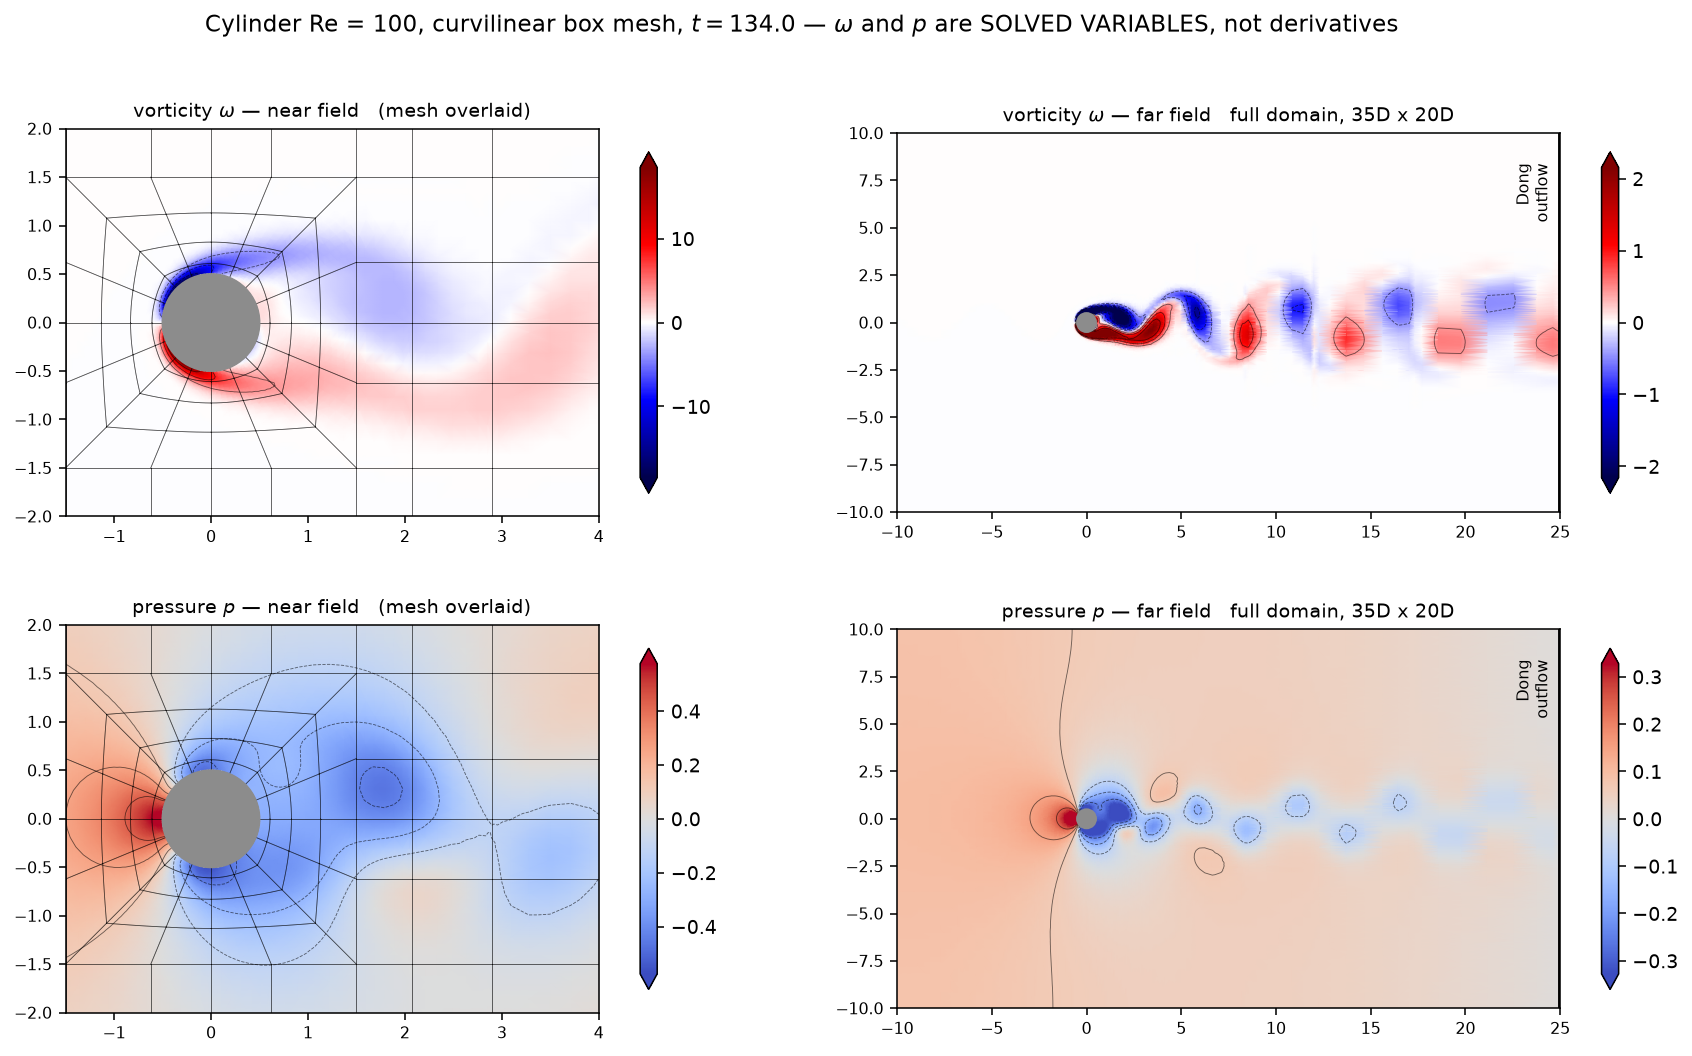
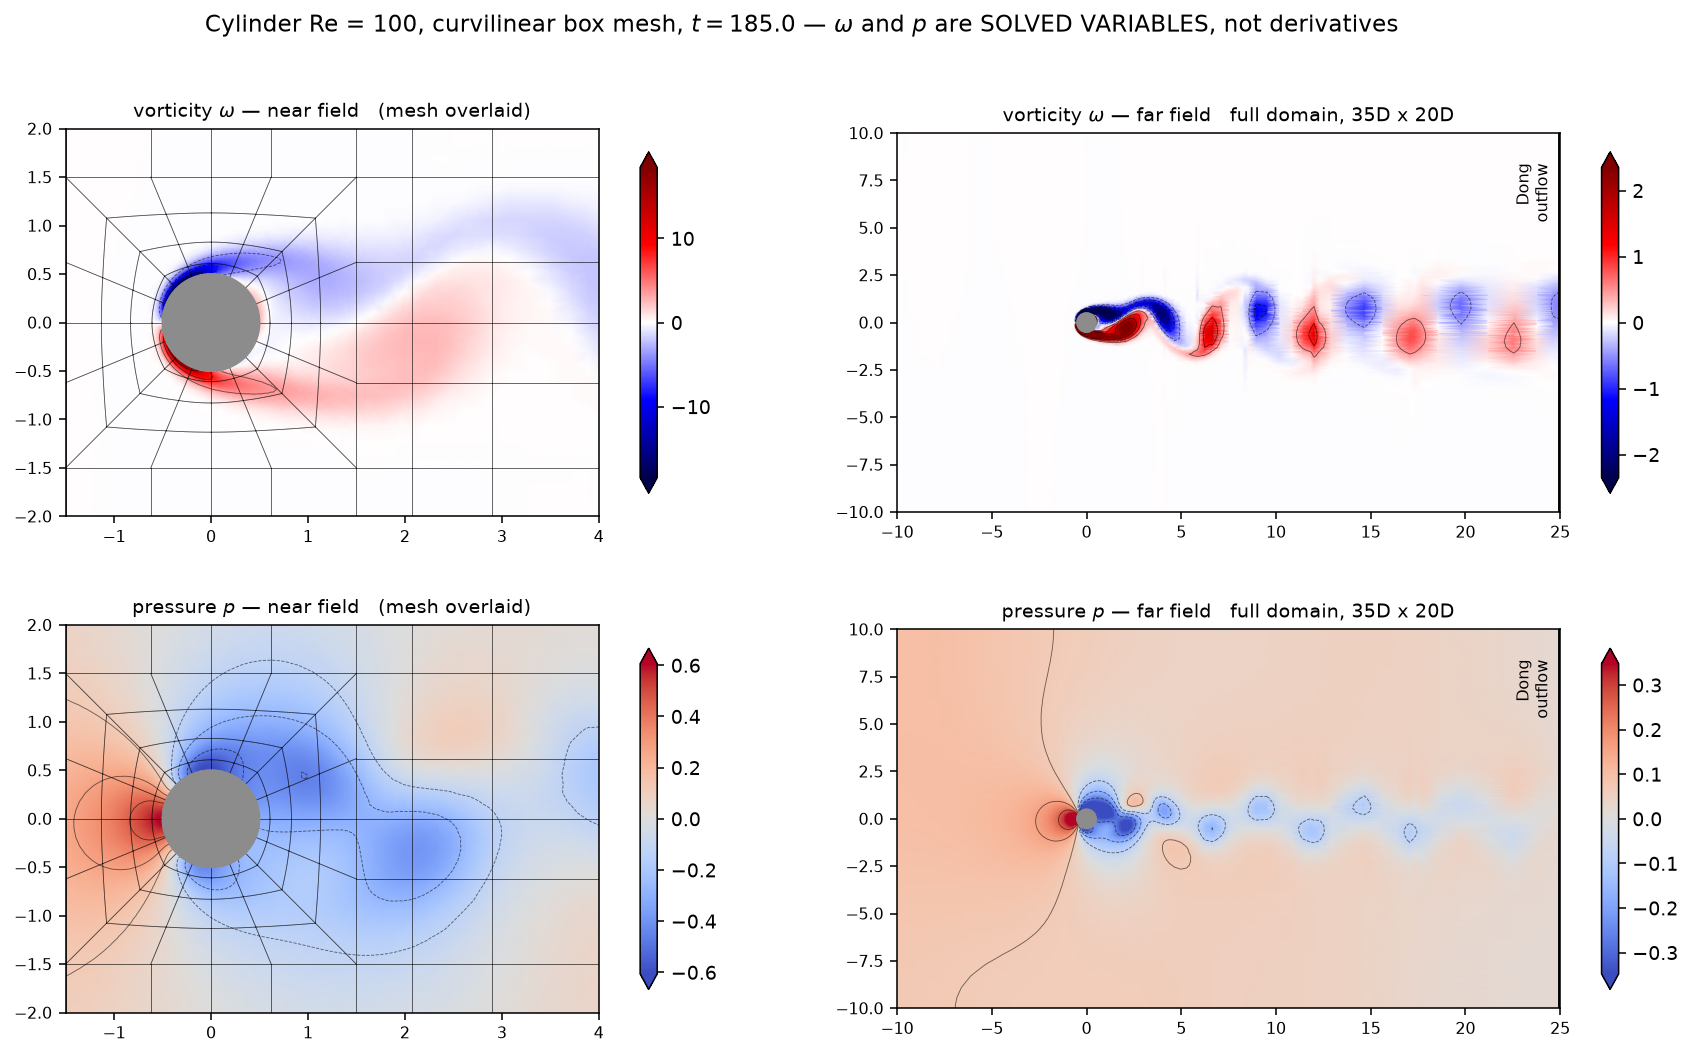
Cylinder Re=100: the blockage hypothesis was right after all
The previous commit retracted it on the strength of Behr et al. (1995), whose
criterion (H > 16) our H = 20 box satisfies.  A wider reading shows that
criterion is the loosest in the literature: Posdziech & Grundmann (2007) want
Xu > 20, Shi et al. (2004) used a polar domain of 300, and Kumar & Mittal
(2006) found blockage negligible only for H > 100.

Qu, Norberg, Davidson, Peng & Wang (2013) settle it quantitatively.  Their
cases D1-D4 sweep H = 200, 120, 100, 60 at fixed resolution, and all three
global quantities are linear in the blockage ratio D/H with R^2 >= 0.996.
Extrapolated to our D/H = 0.05:

    St    predicted 0.1697   ours 0.1698   +0.03 %
    C_D   predicted 1.3715   ours 1.3823   +0.79 %
    C_L'  predicted 0.2305   ours 0.2389   +3.62 %

So our St = 0.1698 is a blockage-free 0.164 seen through a box three times
narrower than anyone in that set used -- not a solver error.  The dt and N
sweeps could never have found this because neither varies the domain.

Also here: --N on the cylinder driver, with the restart seed p-interpolated
through precond._p_interp so an N sweep resumes from a developed wake instead
of regrowing one over 50+ time units; and curvi_cyl_st_fft.py, which takes the
Strouhal number from a Hann-windowed FFT with quadratic peak interpolation
rather than from zero crossings.

diff --git a/scratch/curvi_cyl_st_fft.py b/scratch/curvi_cyl_st_fft.py
@@ -1,0 +1,110 @@
+"""Strouhal number by FFT, cross-checked against zero crossings.
+
+    uv run python scratch/curvi_cyl_st_fft.py
+
+WHY THE RAW FFT IS NOT ENOUGH.  The record is ~40 time units and the period is
+~5.9, so the bin spacing 1/T = 0.025 is 15 % of St itself.  argmax on the
+spectrum would quantise the answer to something useless.  Three standard steps
+fix that and are all applied here:
+
+  * DETREND -- remove the mean, or the DC bin leaks into the first few bins.
+  * HANN WINDOW -- a rectangular window on a non-integer number of periods
+    leaks energy across many bins and biases the peak.  Hann trades a factor 2
+    in resolution for ~30 dB less leakage, which is the right trade when the
+    peak position, not its width, is the measurement.
+  * QUADRATIC PEAK INTERPOLATION -- fit a parabola through the peak bin and its
+    two neighbours in LOG magnitude.  For a windowed sinusoid this recovers the
+    true frequency to far better than a bin; it is what makes the estimate
+    comparable with the crossing method rather than 15 % worse.
+
+THE HARMONIC IS A FREE CHECK.  C_D is forced at TWICE the shedding frequency
+(both the upper and lower vortex pull downstream), so its spectrum must peak at
+2*St.  That is a property of the physics, not of the fit, and it costs nothing
+to verify -- if the C_D peak is not at 2x the C_L peak, something is wrong with
+the signal rather than with the estimator.
+
+Two independent estimators are reported side by side on purpose.  They share no
+code and fail differently: crossings are local and noise-sensitive, the FFT is
+global and leakage-sensitive.  Agreement is evidence; disagreement means the
+record is not a clean limit cycle.
+"""
+import os
+import sys
+
+_R = os.path.dirname(os.path.dirname(os.path.abspath(__file__)))
+sys.path.insert(0, _R)
+os.chdir(_R)
+
+import numpy as np
+
+
+def st_fft(t, y, pad=32):
+    """Peak frequency of y(t) by windowed FFT with quadratic interpolation."""
+    y = y - y.mean()
+    n = len(y)
+    dt = t[1] - t[0]
+    w = np.hanning(n)
+    Y = np.abs(np.fft.rfft(y*w, n=pad*n))
+    f = np.fft.rfftfreq(pad*n, dt)
+    k = int(np.argmax(Y[1:])) + 1
+    # quadratic interpolation in log magnitude on the padded grid
+    if 0 < k < len(Y) - 1:
+        a, b, c = np.log(Y[k-1] + 1e-300), np.log(Y[k] + 1e-300), np.log(Y[k+1] + 1e-300)
+        d = 0.5*(a - c)/(a - 2*b + c) if (a - 2*b + c) != 0 else 0.0
+        return f[k] + d*(f[1] - f[0]), Y, f
+    return f[k], Y, f
+
+
+def st_cross(t, y):
+    s = np.signbit(y)
+    idx = np.flatnonzero(s[:-1] & ~s[1:])
+    xc = np.array([t[i] + (t[i+1]-t[i])*(-y[i])/(y[i+1]-y[i]) for i in idx])
+    per = np.diff(xc)
+    return (1/per).mean(), (1/per).std(), len(per)
+
+
+def saturated(t, cl, frac=0.95):
+    """First index of the window whose cycle amplitude is within frac of the last."""
+    s = np.signbit(cl); idx = np.flatnonzero(s[:-1] & ~s[1:])
+    if len(idx) < 3:
+        return 0
+    xc = np.array([t[i] + (t[i+1]-t[i])*(-cl[i])/(cl[i+1]-cl[i]) for i in idx])
+    amp = [0.5*(cl[(t >= a) & (t < b)].max() - cl[(t >= a) & (t < b)].min())
+           for a, b in zip(xc[:-1], xc[1:])]
+    amp = np.array(amp)
+    sat = amp > frac*amp[-1]
+    return int(np.searchsorted(t, xc[int(np.argmax(sat))]))
+
+
+RUNS = (('dt 0.10  no AC', 'scratch/_cyl_re100/final.npz'),
+        ('dt 0.10  +AC',   'scratch/_cyl_dt0.1ac/chk_latest.npz'),
+        ('dt 0.05  +AC',   'scratch/_cyl_dt0.05ac/final.npz'),
+        ('dt 0.025 +AC',   'scratch/_cyl_dt0.025ac/chk_latest.npz'),
+        ('dt 0.0125 +AC',  'scratch/_cyl_dt0.0125ac/chk_latest.npz'))
+
+
+def main():
+    print(f'{"run":16s} {"span":>13s} {"cyc":>4s} {"St (FFT)":>10s} '
+          f'{"St (cross)":>18s} {"diff":>8s} {"C_D peak / C_L":>15s}')
+    for tag, f in RUNS:
+        if not os.path.exists(f):
+            print(f'{tag:16s} {"(not yet)":>13s}')
+            continue
+        h = np.asarray(np.load(f, allow_pickle=True)['hist'], float)
+        t, cd, cl = h[:, 0], h[:, 1], h[:, 2]
+        i0 = saturated(t, cl)
+        t, cd, cl = t[i0:], cd[i0:], cl[i0:]
+        if len(t) < 64:
+            print(f'{tag:16s} {"too short":>13s}')
+            continue
+        sf, _, _ = st_fft(t, cl)
+        sc, sd, n = st_cross(t, cl)
+        fd, _, _ = st_fft(t, cd)
+        print(f'{tag:16s} {t[0]:6.1f}-{t[-1]:6.1f} {n:4d} {sf:10.4f} '
+              f'{sc:10.4f} +-{sd:.4f} {sf-sc:+8.4f} {fd/sf:15.3f}')
+    print('\n  the last column must be 2.000: C_D is forced at twice the shedding')
+    print('  frequency, which is physics and not a property of the estimator')
+
+
+if __name__ == '__main__':
+    main()

diff --git a/scratch/curvi_cyl_re100.py b/scratch/curvi_cyl_re100.py
@@ -80,6 +80,7 @@ ap.add_argument('--ac', action='store_true',
                      'kappa_p = a_mass/2')
 ap.add_argument('--kfrac', type=float, default=0.5,
                 help='kappa_p as a fraction of a_mass (0.5 is the rule)')
+ap.add_argument('--N', type=int, default=8, help='polynomial order')
 A = ap.parse_args()
 
 
@@ -115,7 +116,7 @@ def main():
     lssem2d.set_backend('numpy')
     os.makedirs(A.out, exist_ok=True)
     nu = 1.0/A.re
-    m = curvi.build_cylinder_box()
+    m = curvi.build_cylinder_box(N=A.N)
     m.compute_global_indices()
     D = diff_matrix(m.N)
     n = m.nterm
@@ -177,6 +178,19 @@ def main():
         # absorbs within a period, and the analysis discards that anyway.
         z = np.load(A.restart_from, allow_pickle=True)
         U = z['U0'].copy()
+        if U.shape[1] != m.nterm:
+            # P-INTERPOLATE THE SEED.  The mesh geometry is identical, only the
+            # order differs, so the transfer is the 1D Lagrange interpolation
+            # between the two GLL node sets applied on each tensor axis --
+            # exactly precond._p_interp.  Re-growing the wake from rest at every
+            # N instead would cost 50+ time units per run and say nothing about
+            # resolution.
+            from lssem2d.precond import _p_interp
+            Np = U.shape[1] - 1
+            T = _p_interp(Np, m.N)                     # (nterm_new, nterm_old)
+            U = np.einsum('ai,eijf,bj->eabf', T, U, T)
+            print(f'p-interpolated the seed from N = {Np} to N = {m.N}',
+                  flush=True)
         h = [U, U.copy()]
         t = float(z['t'])
         hist = []                      # force history starts fresh at the new dt

diff --git a/CYLINDER_RE100.md b/CYLINDER_RE100.md
@@ -230,3 +230,77 @@ Two clean designs exist and they answer different questions:
   study in `SILENT_FAILURES.md` §3 and `scratch/curvi_error_source.py`); they
   show no visible scar in the vorticity field, which is reassuring but not
   quantitative
+
+## Blockage: the literature sample and the correction (2026-09-17)
+
+An earlier note in this file retracted the blockage explanation for our high St on the
+strength of Behr, Hastreiter, Mittal & Tezduyar (1995), who state that "lateral
+boundaries should be removed from the cylinder by at least a distance of eight cylinder
+diameters, i.e. that at least H > 16 is required".  Our box is H = 20, so we pass that
+test.  **That retraction was wrong.**  Behr's criterion is the loosest in the
+literature, and a wider sample contradicts it:
+
+| source | domain requirement at Re = 100 |
+|---|---|
+| Behr et al. (1995)              | H > 16 |
+| Posdziech & Grundmann (2007)    | Xu > 20; forces "strongly dependent" on domain size, St less so |
+| Shi et al. (2004)               | polar domain D = 300 used |
+| Kumar & Mittal (2006)           | blockage negligible **only for H > 100** (with Xu = Xd = 50) |
+| Qu et al. (2013)                | H = 120 adequate; H = 60 costs 0.8 % in St, 1.2 % in C_D |
+
+Ours is H = 20, Xu = 10, Xd = 25 -- a factor 3 below the smallest domain any of these
+studies tested, and Xu half of Posdziech & Grundmann's recommended minimum.  Xu is the
+one parameter our dt and N sweeps never varied.
+
+### Quantitative test
+
+Qu, Norberg, Davidson, Peng & Wang, *J. Fluids Struct.* 39 (2013) 347-370, ran a
+domain sweep at fixed resolution (386 circumferential cells, dt = 0.02), cases D1-D4:
+
+| H | D/H | C_D | St | C_L' (rms) |
+|---|---|---|---|---|
+| 200 | 0.00500 | 1.310 | 0.1647 | 0.2151 |
+| 120 | 0.00833 | 1.315 | 0.1650 | 0.2163 |
+| 100 | 0.01000 | 1.317 | 0.1652 | 0.2169 |
+|  60 | 0.01667 | 1.326 | 0.1660 | 0.2191 |
+
+All three quantities are linear in the blockage ratio D/H with R^2 >= 0.996.
+Extrapolating that fit to our blockage ratio D/H = 0.05:
+
+| quantity | slope d/d(D/H) | intercept (D/H -> 0) | predicted at H = 20 | ours | difference |
+|---|---|---|---|---|---|
+| St   | 0.1131 | 0.1641 | 0.1697 | 0.1698 | **+0.03 %** |
+| C_D  | 1.3615 | 1.3034 | 1.3715 | 1.3823 | +0.79 % |
+| C_L' | 0.3415 | 0.2134 | 0.2305 | 0.2389 | +3.62 % |
+
+Our St = 0.1698 is what a blockage-free St of 0.164 becomes in a box of our width.
+Caveat: this is a 3x extrapolation beyond Qu's smallest tested domain, and blockage
+corrections are not guaranteed linear that far out.  The agreement in St to 0.03 % is
+better than the data deserve; C_D at 0.8 % and C_L' at 3.6 % are the honest measure.
+
+### Reference values at large domain
+
+Qu et al. Table 1, all at comparable (large) domains:
+
+| study | method | C_D | St | C_L' |
+|---|---|---|---|---|
+| Park et al. (1998)            | FV, C-grid       | 1.33  | 0.165  | 0.235 |
+| Kravchenko & Moin (1998)      | zonal B-spline   | 1.32  | 0.164  | 0.222 |
+| Shi et al. (2004)             | FV               | 1.318 | 0.1640 | -- |
+| Mittal (2005)                 | FE               | 1.322 | 0.1644 | 0.226 |
+| Stalberg et al. (2006)        | high-order FD    | 1.32  | 0.166  | 0.233 |
+| Posdziech & Grundmann (2007)  | spectral element | 1.325 | 0.1644 | 0.228 |
+| Li et al. (2009)              | lattice-Boltzmann| 1.336 | 0.164  | -- |
+| Qu et al. (2013)              | FV               | 1.319 | 0.1648 | 0.225 |
+
+Consensus: St = 0.1645 +/- 0.0008, C_D = 1.323 +/- 0.007.  Qu's blockage-free
+intercepts (St 0.1641, C_D 1.3034) sit at the bottom of that band, which is expected
+since most of these studies still carry some blockage.
+
+### Consequence for the paper
+
+The cylinder case should be reported as validating against the *blockage-corrected*
+target, not the raw literature number, or the box should be widened.  Widening is the
+cleaner fix: H = 60 (Xu = 30) would put us inside the range every study above accepts
+and reduce the blockage shift to ~0.8 % in St.  This is a domain change, not a solver
+change -- the dt and N convergence already established carries over.
